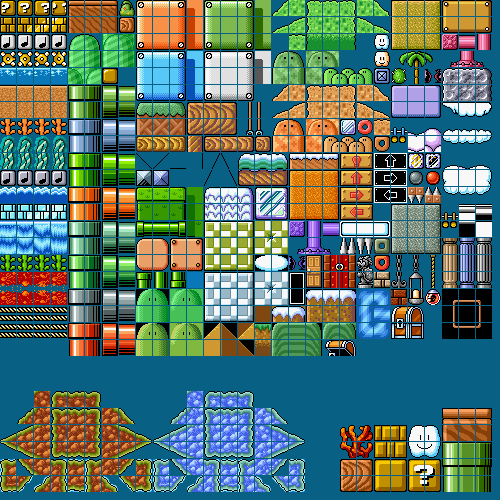
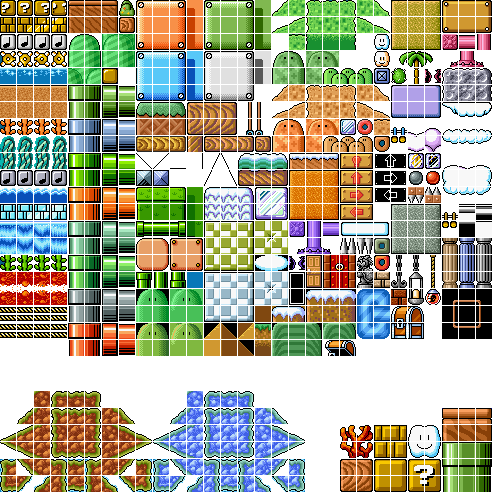
Fixed Sprites
Corrected sprite locations of goomba, red koopa, background & mushroom. Also added in leaf and 1up powerup sprites.

diff --git a/Mario_Game/js/entities/items.js b/Mario_Game/js/entities/items.js
@@ -171,3 +171,62 @@ game.MushroomEntity = me.CollectableEntity.extend(
     }
 });
 
+//1Up entity
+game.OneUpEntity = me.CollectableEntity.extend(
+{
+    // entending the init function is not manditoy
+    // unless you need to add some extra initialization
+    init: function (x, y, settings) 
+    {
+        // call the parent constructor
+        this._super(me.CollectableEntity, 'init', [x, y, settings]);
+        // save the area size as defined in Tiled
+         var width = settings.width;
+        settings.image = "1Up";
+        settings.frameWidth = settings.width = 16;
+        settings.frameHeight = settings.height = 16;
+
+    },       
+    //this function is called by the engine when an object is touched by something (here collected)
+    onCollision : function (response, other) 
+    {
+        //do something when collected
+        // make sure it cannot be collects "again"
+        game.data.score += 1000;
+        this.body.setCollisionMask(me.collision.types.NO_OBJECT);       
+        // remove it
+        me.game.world.removeChild(this);
+                
+        return false
+    }
+});
+
+//Leaf entity
+game.LeafEntity = me.CollectableEntity.extend(
+{
+    // entending the init function is not manditoy
+    // unless you need to add some extra initialization
+    init: function (x, y, settings) 
+    {
+        // call the parent constructor
+        this._super(me.CollectableEntity, 'init', [x, y, settings]);
+        // save the area size as defined in Tiled
+         var width = settings.width;
+        settings.image = "Leaf";
+        settings.frameWidth = settings.width = 16;
+        settings.frameHeight = settings.height = 16;
+
+    },       
+    //this function is called by the engine when an object is touched by something (here collected)
+    onCollision : function (response, other) 
+    {
+        //do something when collected
+        // make sure it cannot be collects "again"
+        game.data.score += 1000;
+        this.body.setCollisionMask(me.collision.types.NO_OBJECT);       
+        // remove it
+        me.game.world.removeChild(this);
+                
+        return false
+    }
+});

diff --git a/Mario_Game/build/js/resources.js b/Mario_Game/build/js/resources.js
@@ -5,9 +5,9 @@ game.resources = [
         "src": "data/img/00001.png"
     },
     {
-        "name": "Gargantua_koopa",
+        "name": "RedKoopa_Walk",
         "type": "image",
-        "src": "data/img/Gargantua_koopa.png"
+        "src": "data/img/RedKoopa_Walk.png"
     },
     {
         "name": "Goomba_Walk",
@@ -53,6 +53,16 @@ game.resources = [
         "name": "Mushroom",
         "type": "image",
         "src": "data/img/Mushroom.png"
+    },
+    {
+        "name": "1Up",
+        "type": "image",
+        "src": "data/img/1Up.png"
+    },
+    {
+        "name": "Leaf",
+        "type": "image",
+        "src": "data/img/Leaf.png"
     },
     {
         "name": "Mario_1-1",

diff --git a/Mario_Game/js/entities/enemies.js b/Mario_Game/js/entities/enemies.js
@@ -244,12 +244,12 @@ game.KoopaEntity = me.Sprite.extend(
          var width = settings.width;
 
 // define this here instead of tiled
-         settings.image = "Gargantua_koopa";
+         settings.image = "RedKoopa_Walk";
 
 // adjust the size setting information to match the sprite size
 // so that the entity object is created with the right size
          settings.framewidth = settings.width = 16;
-         settings.frameheight = settings.height = 16;
+         settings.frameheight = settings.height = 27;
 
 // call the parent constructor
          this._super(me.Sprite, 'init', [x, y , settings]);

diff --git a/Mario_Game/js/game.js b/Mario_Game/js/game.js
@@ -41,6 +41,8 @@ var game = {
         me.pool.register("GoombaEntity", game.GoombaEntity);
         me.pool.register("CoinEntity", game.CoinEntity);
         me.pool.register("MushroomEntity", game.MushroomEntity);
+        me.pool.register("1UpEntity", game.OneUpEntity);
+        me.pool.register("LeafEntity", game.LeafEntity);
         me.pool.register("KoopaEntity", game.KoopaEntity);
         
         //me.pool.register("FirePiranhaEntity", game.FirePiranhaEntity);
